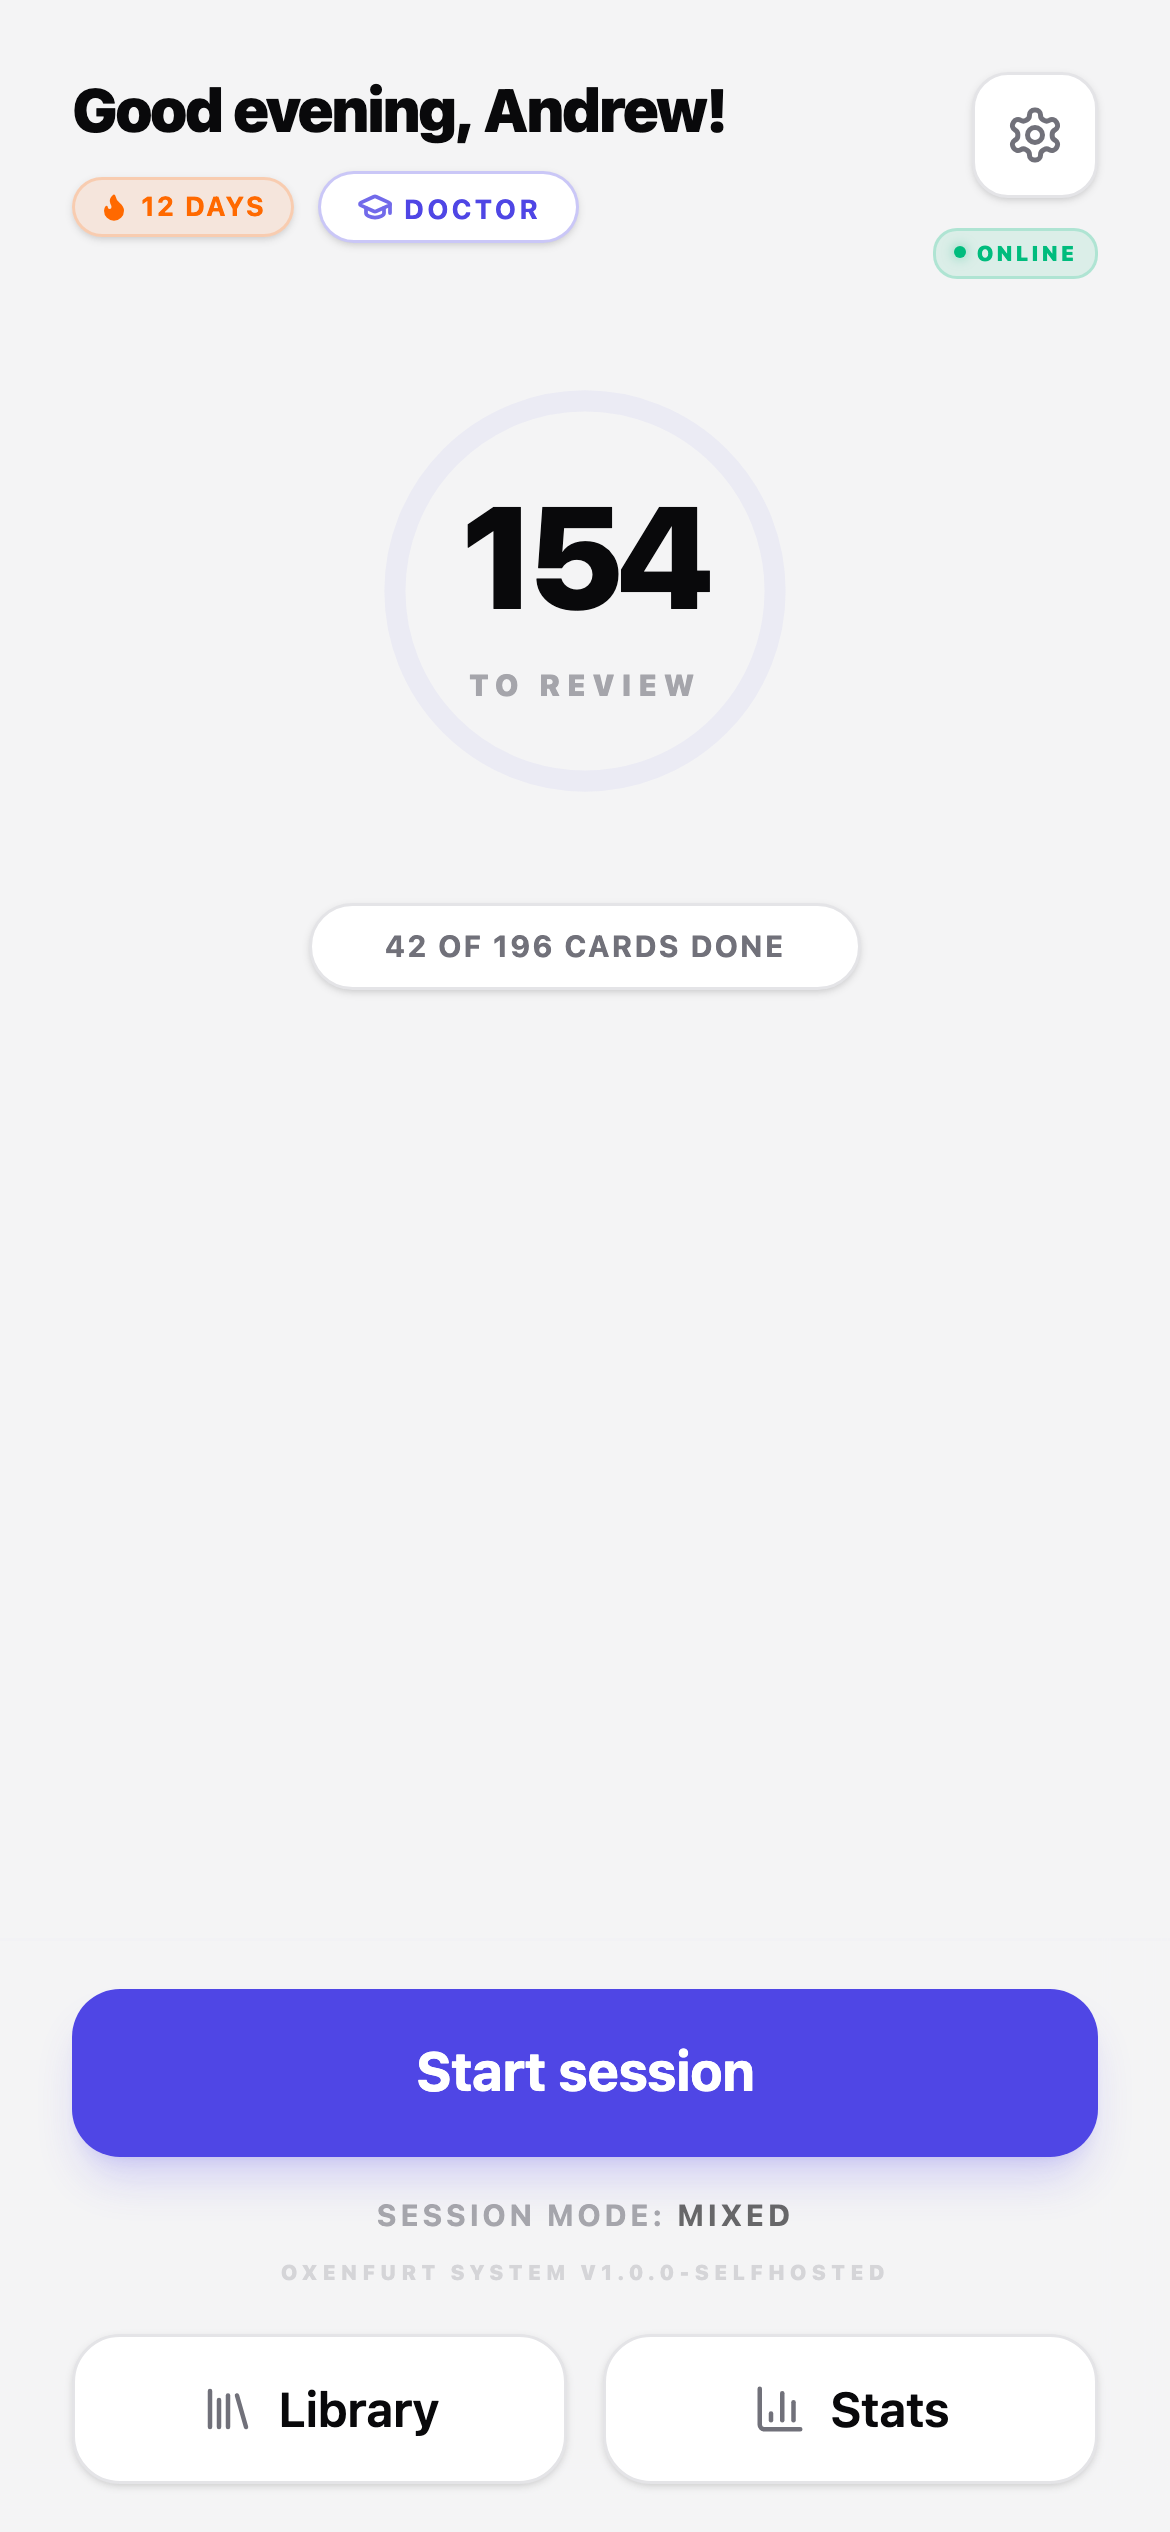
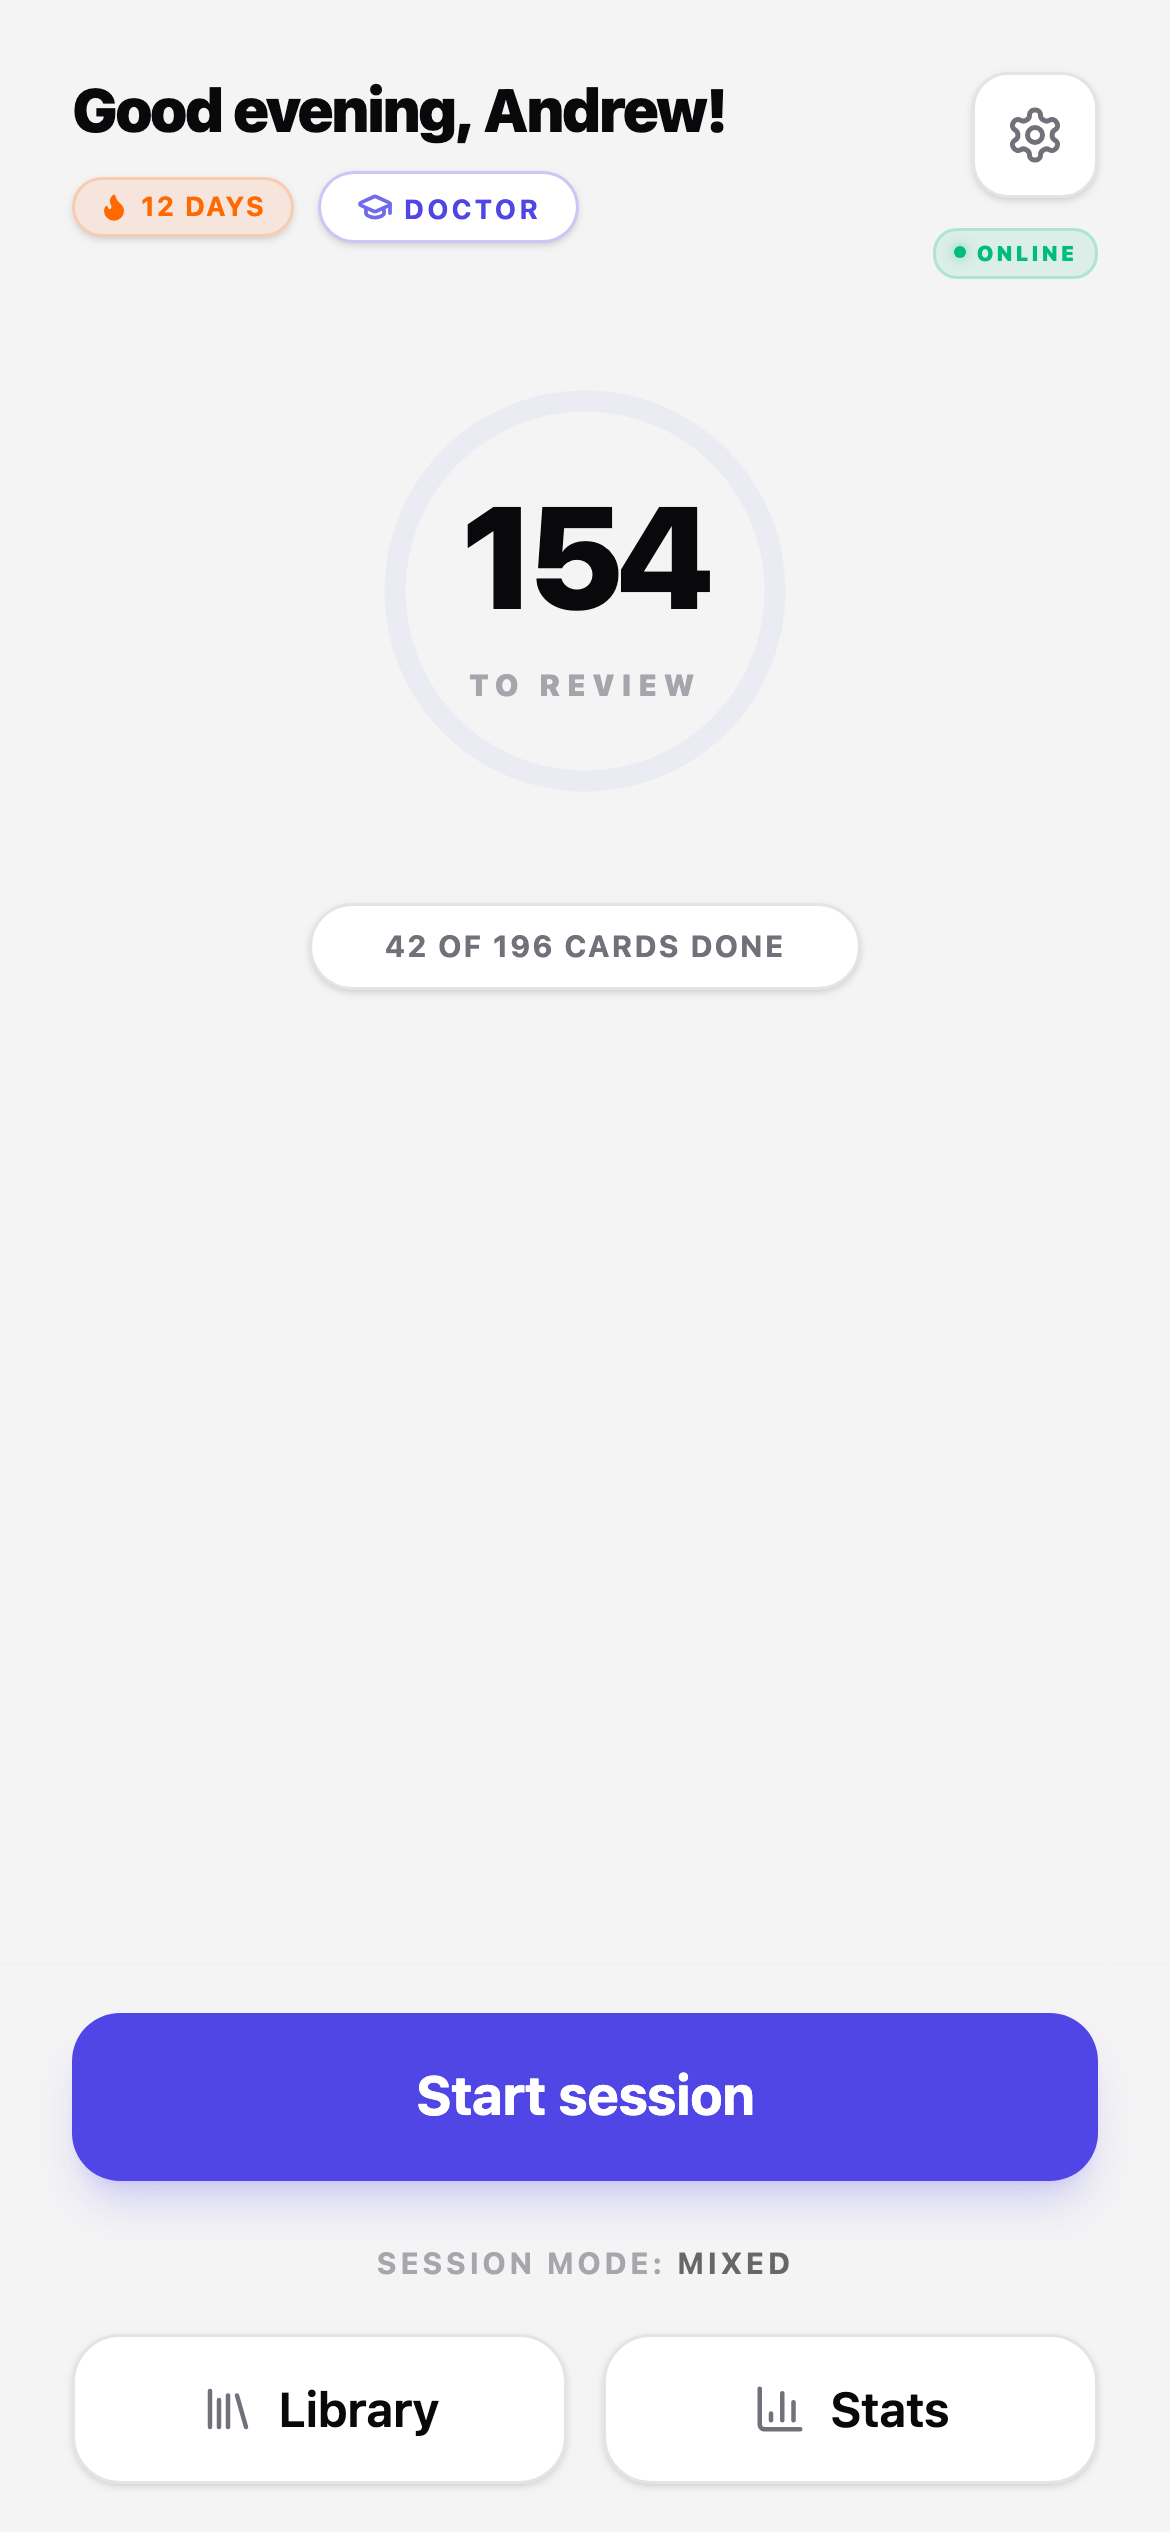
style: remove bottom branding to ensure Home screen fits perfectly without scroll

Changed region(s): [[0.0615, 0.78, 0.9538, 0.9048]]

diff --git a/apps/mini-app/src/components/Home.tsx b/apps/mini-app/src/components/Home.tsx
@@ -206,9 +206,11 @@ export function Home({ onStart, onOpenLibrary, onOpenStats, onOpenAnswers, userF
           <button className="w-full bg-app-primary text-app-primary-text py-3.5 rounded-2xl font-bold text-lg active:scale-95 shadow-lg shadow-app-primary/20" onClick={() => { primeSpeech(); void primeAudio(); onStart(pausedSession ? pausedSession.mode : mode); }}>
             {pausedSession ? t('home.resume_session') : t('home.start_session')}
           </button>
-          <div className="flex flex-col items-center gap-1.5 opacity-60">
-            <p className="text-[10px] text-app-hint font-bold uppercase tracking-[0.1em]">{t('settings.mode_label')}: <span className="text-app-text">{t(modeKey(mode))}</span> {settings.sessionLimit && <span className="ml-1">· {settings.sessionLimit}</span>}</p>
-            <p className="text-[7px] text-app-hint font-black uppercase tracking-[0.2em] opacity-40">Oxenfurt System v1.0.0-selfhosted</p>
+          <div className="mt-2 flex flex-col items-center gap-1.5 opacity-60">
+            <p className="text-[10px] text-app-hint font-bold uppercase tracking-[0.1em]">
+              {t('settings.mode_label')}: <span className="text-app-text">{t(modeKey(mode))}</span>
+              {settings.sessionLimit && <span className="ml-1">· {settings.sessionLimit}</span>}
+            </p>
           </div>
           <div className="grid grid-cols-2 gap-3 mt-1">
             <button onClick={onOpenLibrary} className="flex items-center justify-center gap-2 py-3 rounded-2xl border border-app-border bg-app-surface text-app-text font-semibold active:scale-95 transition-transform shadow-sm">
